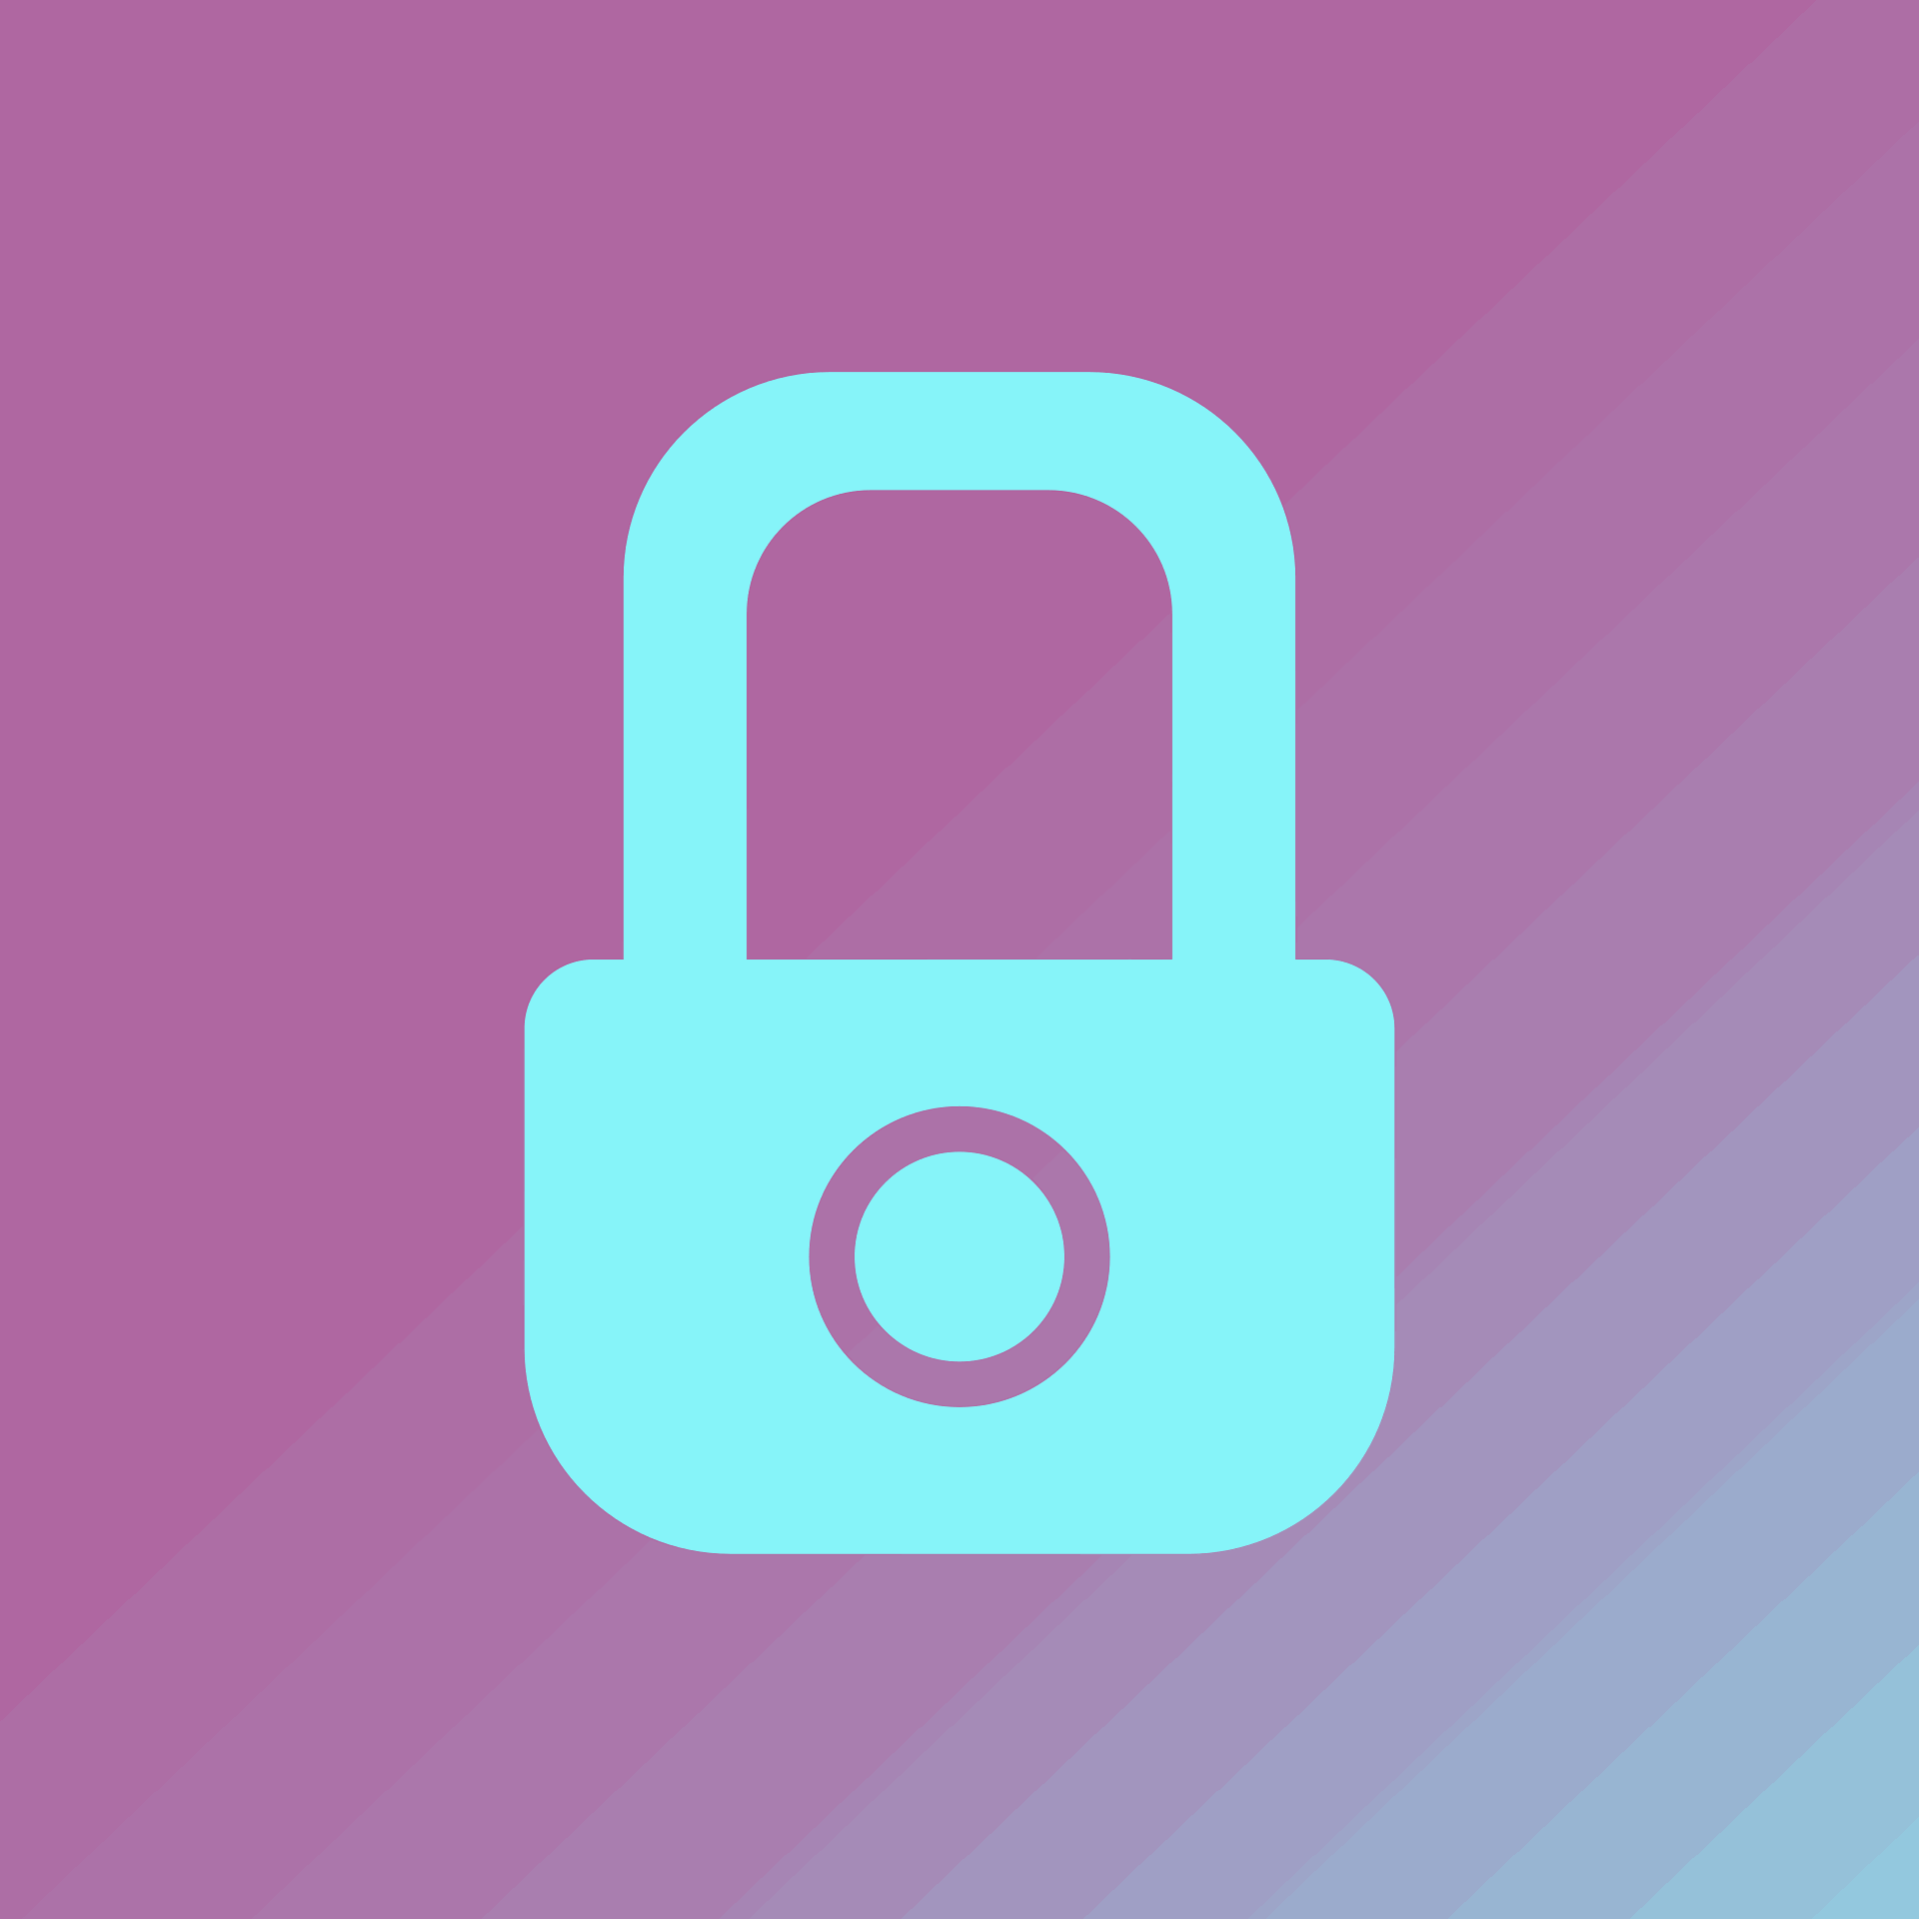
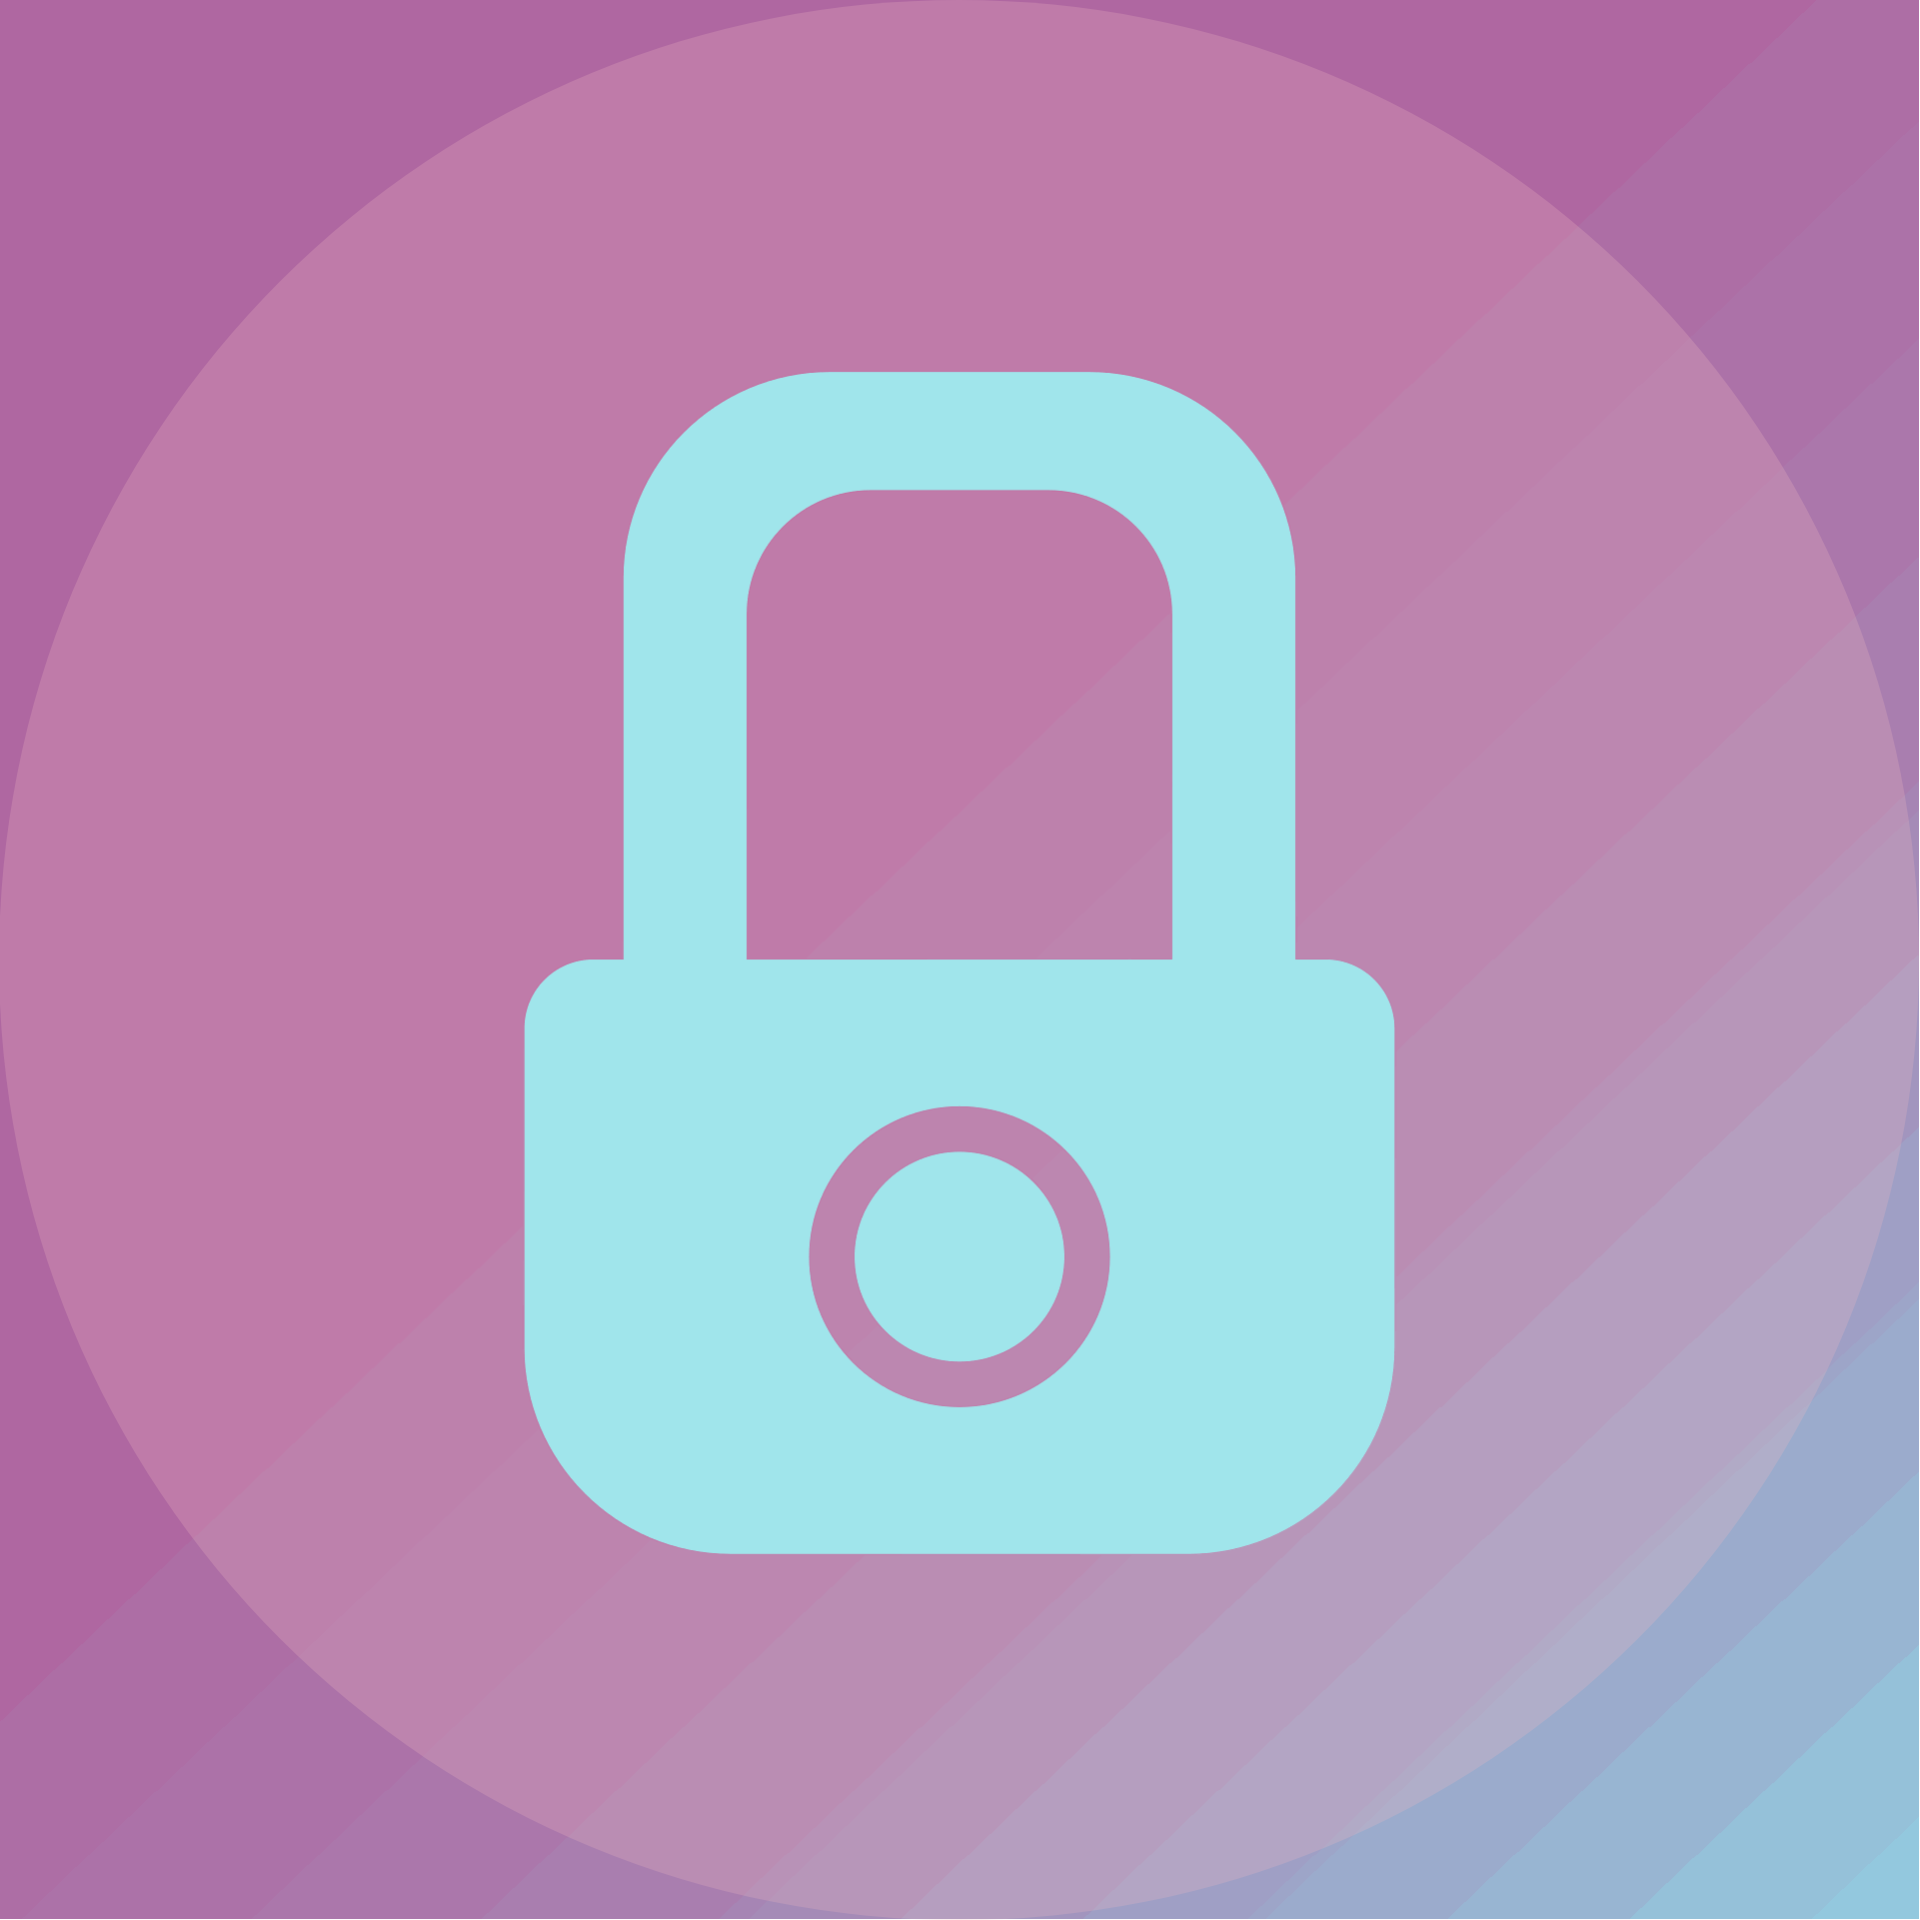
Icono HTML y funcionalidad de desencriptar

Changed region(s): [[0.25, 0.1875, 0.75, 0.8125]]

diff --git a/main.js b/main.js
@@ -11,8 +11,8 @@ function encriptar() {
                          .replace(/o/gi, "ober")
                          .replace(/u/gi, "ufat")
 
-if (document.getElementById("texto").value !=0) {
-    texto.value = textoCifrado;
+if (texto.length !=0) {
+    document.getElementById("texto").value = textoCifrado;
     tituloMensaje.textContent = "Texto encriptado con éxito";
     parrafo.textContent = "";
     muñeco.src = "./img/encriptado.png";
@@ -24,3 +24,27 @@ if (document.getElementById("texto").value !=0) {
 }
 }
 
+function desencriptar() {
+    let texto = document.getElementById("texto").value;
+    let tituloMensaje = document.getElementById("titulo-mensaje");
+    let parrafo = document.getElementById("parrafo");
+    let muñeco = document.getElementById("muñeco");
+    let textoCifrado = texto
+                         .replace(/enter/gi, "i")
+                         .replace(/imes/gi, "i")
+                         .replace(/ai/gi, "a")
+                         .replace(/ober/gi, "o")
+                         .replace(/ufat/gi, "u")
+
+if (texto.length !=0) {
+    document.getElementById("texto").value  = textoCifrado;
+    tituloMensaje.textContent = "Texto desencriptado con éxito";
+    parrafo.textContent = "";
+    muñeco.src = "./img/desencriptar.png";
+} else {
+    muñeco.src = "./img/muneco.png";
+    tituloMensaje.textContent = "Ningún mensaje fue encontrado"
+    parrafo.textContent = "Ingresa el texto que deseas encriptar o desencriptar"
+    alert("Debes ingresar algo de texto");
+}
+}

diff --git a/index.html b/index.html
@@ -4,6 +4,7 @@
     <meta charset="UTF-8">
     <meta name="viewport" content="width=device-width, initial-scale=1.0">
     <title>Encriptador de Texto</title>
+    <link rel="shortcut icon" href="./img/icon.png" type="image/x-icon">
     <link rel="stylesheet" href="style.css"/>    
 </head>
 <body>
